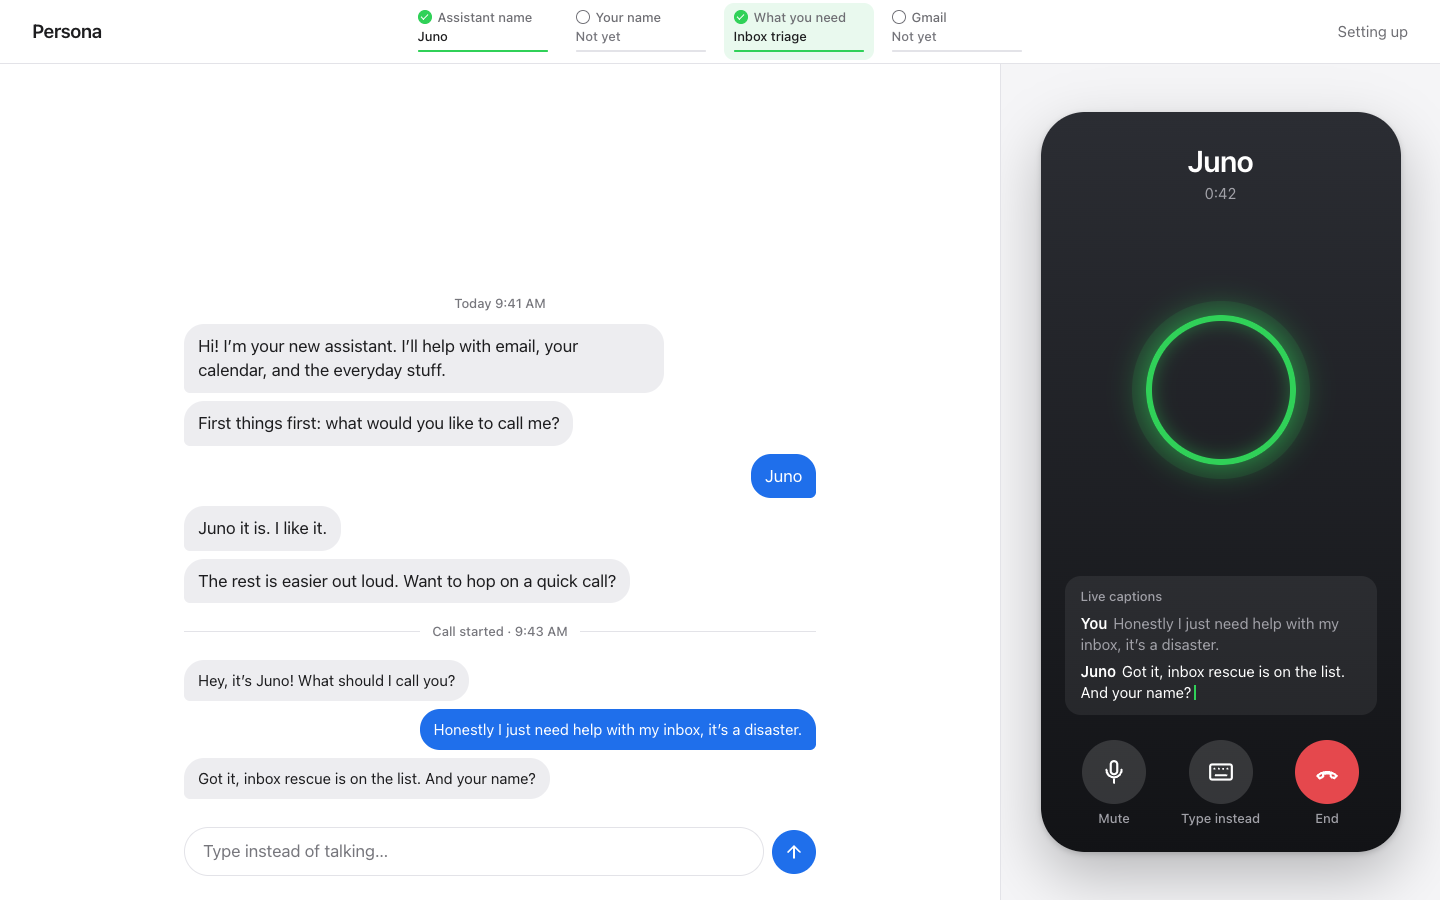
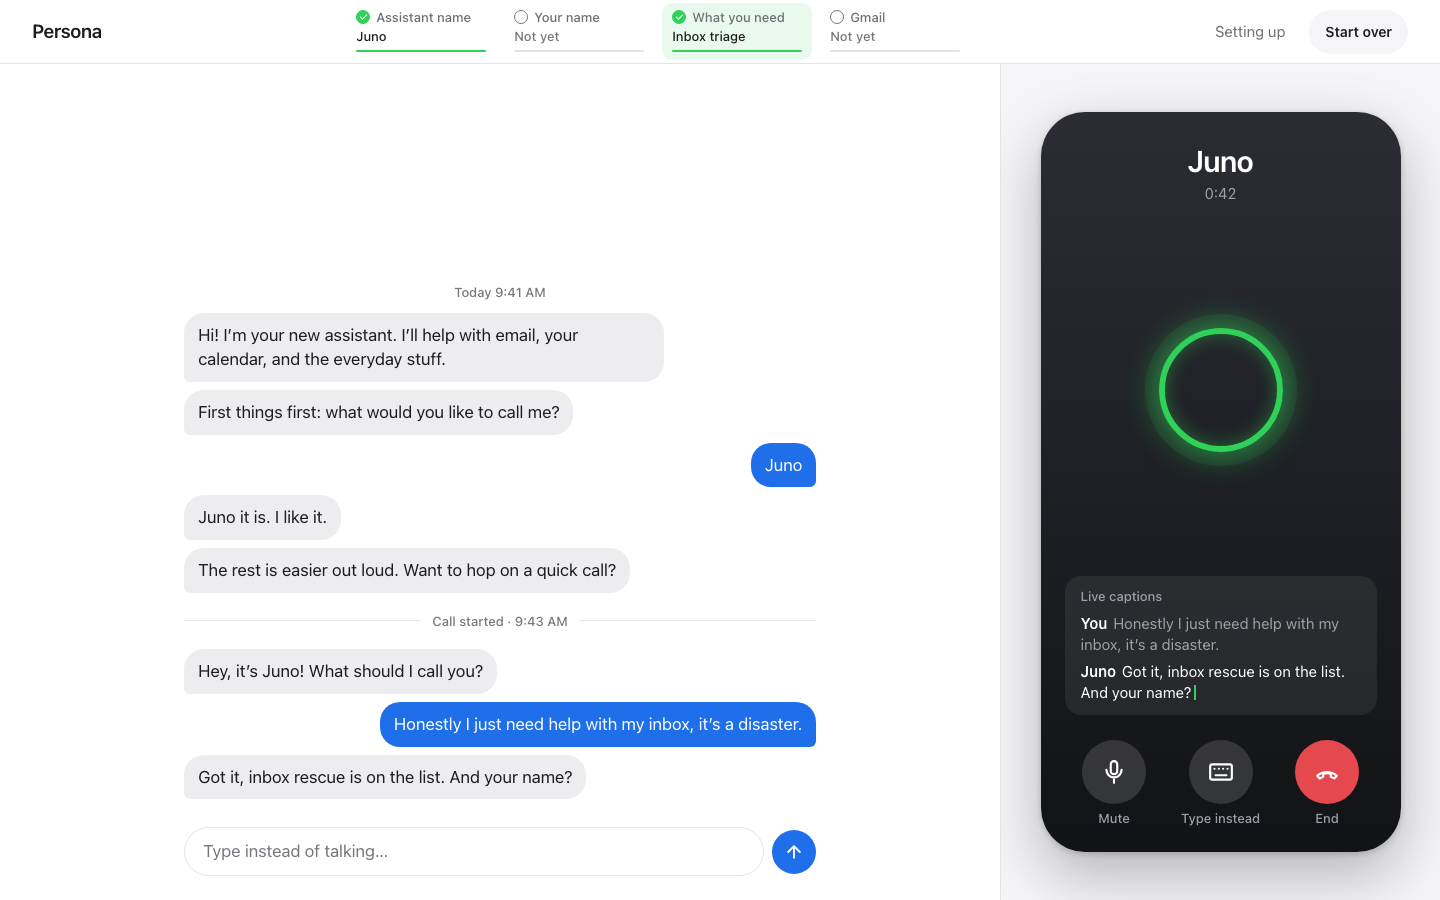
qa:visual: refresh call-connected/reconnecting/muted baselines (voice bubbles at body size, smaller ring, overlay badge); mockup css in sync

diff --git a/docs/design/mockups/styles.css b/docs/design/mockups/styles.css
@@ -80,7 +80,7 @@ button { font: inherit; cursor: pointer; }
 .msg { max-width: 76%; padding: 10px 14px; border-radius: var(--r-bubble); font: var(--t-body); }
 .msg.agent { align-self: flex-start; background: var(--bubble-agent); border-bottom-left-radius: 6px; }
 .msg.user { align-self: flex-end; background: var(--bubble-user); color: var(--bubble-user-ink); border-bottom-right-radius: 6px; }
-.msg.voice { font: var(--t-callout); }
+/* FONT-001: voice bubbles use the same body token as every other bubble. */
 .msg + .msg.agent, .msg + .msg.user { margin-top: 0; }
 .from { font: var(--t-caption); color: var(--ink-3); margin: var(--s2) 0 -2px 6px; }
 .typing { align-self: flex-start; background: var(--bubble-agent); border-radius: var(--r-bubble); padding: 14px 16px; display: flex; gap: 4px; }
@@ -133,7 +133,7 @@ button { font: inherit; cursor: pointer; }
 .device .who .status { font: var(--t-callout); color: var(--call-ink-2); margin-top: 6px; font-variant-numeric: tabular-nums; }
 .device .who .status.warn { color: var(--amber); }
 .device .stage { display: grid; place-items: center; }
-.device .stage .ring { width: 150px; height: 150px; }
+.device .stage .ring { width: 124px; height: 124px; }
 .device .badge { display: inline-block; margin-top: var(--s3); font: var(--t-caption); padding: 4px 10px; border-radius: var(--r-pill); background: rgba(255,255,255,.1); color: var(--call-ink); white-space: nowrap; }
 .captions { background: rgba(255,255,255,.07); border-radius: 16px; padding: var(--s3) var(--s4); min-height: 118px; display: flex; flex-direction: column; justify-content: flex-end; gap: 6px; margin-bottom: var(--s5); }
 .captions .cap { font: var(--t-callout); color: var(--call-ink-2); }
